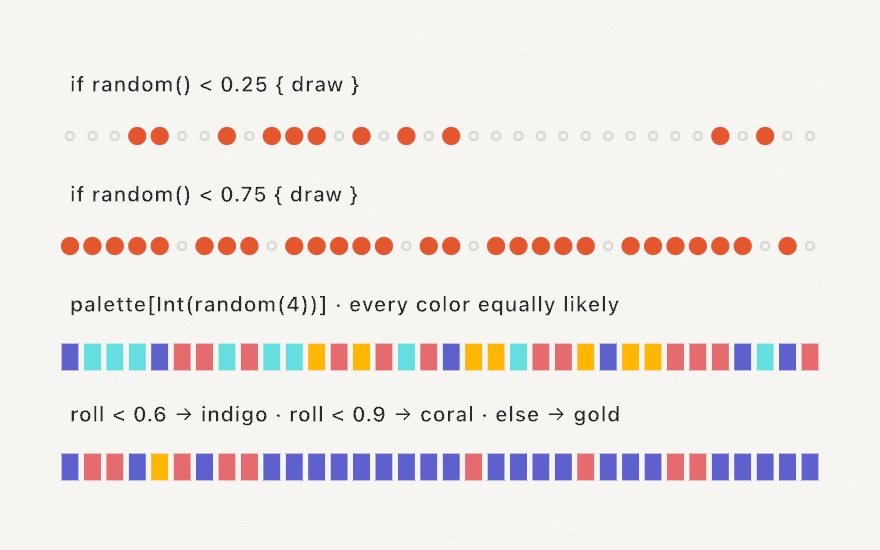
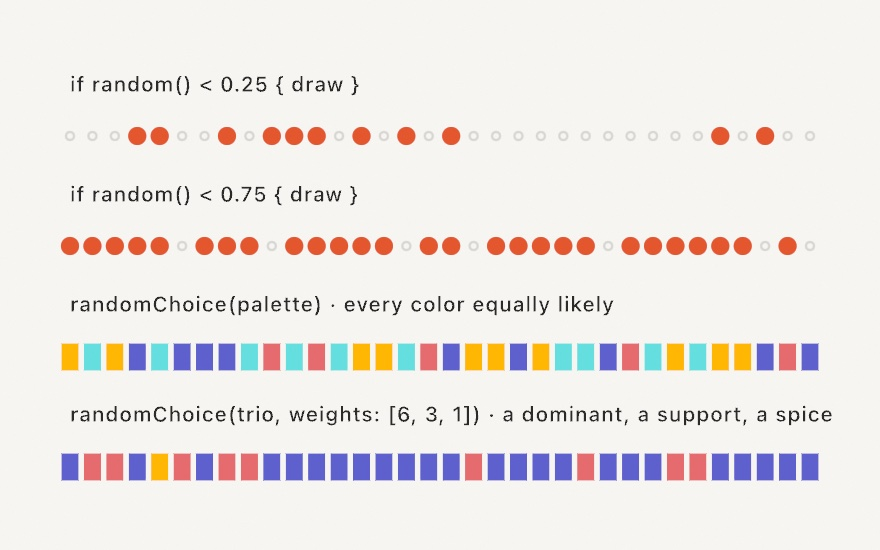
Add seeded randomChoice/shuffled, the Walk example, and the zero-width random gotcha
randomChoice(_:) picks uniformly from an array and randomChoice(_:weights:)
biases the pick (non-negative weights in any scale, zero never wins);
shuffled(_:) reorders through the sketch's seeded generator. All three ride
the same rng as random, so a seed reproduces them; RandomTests pins the
semantics, and Docs/Generators/Random.md documents them alongside the new
gotcha that a zero-width random(a, a) returns its bound without consuming a
roll (scale a unit roll instead, the idiom the Ch 4 payoff uses).

Examples/Randomness/Walk promotes the Guide's growing-walk figure into a
proper example: the clock reveals a seeded path, a click starts a fresh walk
in a randomChoice color. Guide Chapter 4 adopts the helpers in the pick and
weighted-pick teaching, the Choices figure, and the DisorderGrid payoff,
which drops the Int()-indexing dance from the book.

All three items came from the Chapter 4 teaching-gaps list.

diff --git a/Sources/Ollin/Math/Random.swift b/Sources/Ollin/Math/Random.swift
@@ -21,7 +21,7 @@ public struct SplitMix64: RandomNumberGenerator {
 }
 
 public extension Sketch {
-    /// Seed the generator behind `random()` for reproducible runs — the same
+    /// Seed the generator behind `random()` for reproducible runs: the same
     /// seed yields the same sequence. (Ollin's `random`/`noise` are their own
     /// implementations, so a seed reproduces Ollin's output.)
     func randomSeed(_ seed: Int) {
@@ -76,7 +76,7 @@ public extension Sketch {
         mean + randomGaussian() * deviation
     }
 
-    /// A random point inside `rect` — each coordinate uniform within the bounds.
+    /// A random point inside `rect`, each coordinate uniform within the bounds.
     /// Handy for scattering: `randomVector(in: Rectangle(x: 0, y: 0, width: width, height: height))`.
     func randomVector(in rect: Rectangle) -> Vector2 {
         Vector2(random(rect.x, rect.x + rect.width),
@@ -90,5 +90,43 @@ public extension Sketch {
         let radius = random(innerRadius, outerRadius)
         let angle = random(.tau)
         return Vector2(cos(angle) * radius, sin(angle) * radius)
+    }
+
+    /// A random element of `choices`, each equally likely. The everyday
+    /// palette pick: `fill(randomChoice(palette))`. Seeded like everything
+    /// `random`, so `randomSeed` makes the picks reproducible. `choices` must
+    /// not be empty.
+    func randomChoice<T>(_ choices: [T]) -> T {
+        precondition(!choices.isEmpty, "randomChoice needs at least one choice")
+        return choices[Int.random(in: 0 ..< choices.count, using: &rng)]
+    }
+
+    /// A random element of `choices`, biased by `weights`: one non-negative
+    /// weight per choice, in any scale (they need not sum to 1), and a choice
+    /// weighted 0 is never picked. `randomChoice(palette, weights: [6, 3, 1])`
+    /// picks the first color six times as often as the last.
+    func randomChoice<T>(_ choices: [T], weights: [Double]) -> T {
+        precondition(!choices.isEmpty, "randomChoice needs at least one choice")
+        precondition(choices.count == weights.count,
+                     "randomChoice needs one weight per choice")
+        let total = weights.reduce(0, +)
+        precondition(weights.allSatisfy { $0 >= 0 } && total > 0,
+                     "randomChoice weights must be non-negative, with at least one above zero")
+        let roll = random(total)
+        var cumulative = 0.0
+        for (choice, weight) in zip(choices, weights) {
+            cumulative += weight
+            if roll < cumulative { return choice }
+        }
+        // Floating-point summation can leave the roll a hair past the last
+        // threshold; land it on the final pickable choice.
+        return choices[weights.lastIndex(where: { $0 > 0 })!]
+    }
+
+    /// The elements of `array` in a random order, drawn from the sketch's
+    /// seeded generator, so a seeded shuffle reproduces. (An array's own
+    /// `shuffled()` rolls the system's dice instead and differs every run.)
+    func shuffled<T>(_ array: [T]) -> [T] {
+        array.shuffled(using: &rng)
     }
 }

diff --git a/Tests/OllinTests/RandomTests.swift b/Tests/OllinTests/RandomTests.swift
@@ -1,0 +1,76 @@
+import Testing
+@testable import Ollin
+
+/// The seeded choice helpers: reproducibility under a seed, weight semantics
+/// (zero never picked, bias holds), and the shuffle being a true permutation.
+@Suite
+@MainActor
+struct RandomTests {
+
+    @Test func seededChoicesReproduce() {
+        let a = Sketch(), b = Sketch()
+        a.randomSeed(42)
+        b.randomSeed(42)
+        let items = ["ink", "coral", "gold", "teal"]
+        for _ in 0..<50 {
+            #expect(a.randomChoice(items) == b.randomChoice(items))
+        }
+        for _ in 0..<50 {
+            #expect(a.randomChoice(items, weights: [6, 3, 1, 0.5])
+                == b.randomChoice(items, weights: [6, 3, 1, 0.5]))
+        }
+        #expect(a.shuffled(items) == b.shuffled(items))
+    }
+
+    @Test func uniformChoiceReachesEveryElement() {
+        let sketch = Sketch()
+        sketch.randomSeed(7)
+        let items = [0, 1, 2, 3]
+        var seen = Set<Int>()
+        for _ in 0..<200 {
+            seen.insert(sketch.randomChoice(items))
+        }
+        #expect(seen == Set(items))
+    }
+
+    @Test func zeroWeightIsNeverPicked() {
+        let sketch = Sketch()
+        sketch.randomSeed(3)
+        for _ in 0..<500 {
+            #expect(sketch.randomChoice(["a", "b", "c"], weights: [0, 1, 0]) == "b")
+        }
+    }
+
+    @Test func weightsBiasTheOdds() {
+        let sketch = Sketch()
+        sketch.randomSeed(11)
+        var first = 0
+        for _ in 0..<1000 where sketch.randomChoice([1, 2], weights: [9, 1]) == 1 {
+            first += 1
+        }
+        #expect(first > 800 && first < 980)   // ~900 expected; deterministic under the seed
+    }
+
+    @Test func shuffledIsASeededPermutation() {
+        let sketch = Sketch()
+        let items = Array(1...20)
+        sketch.randomSeed(5)
+        let once = sketch.shuffled(items)
+        sketch.randomSeed(5)
+        let again = sketch.shuffled(items)
+        #expect(once == again)
+        #expect(once.sorted() == items)
+        #expect(once != items)   // seed 5 happens not to be the identity permutation
+    }
+
+    @Test func zeroWidthRangeReturnsItsBoundWithoutConsumingARoll() {
+        // Load-bearing for seeded sketches (documented in Docs/Generators/Random.md):
+        // an empty range short-circuits, so knob-scaled jitter should roll
+        // random(-1, 1) * amount to keep the draw sequence stable at zero.
+        let a = Sketch(), b = Sketch()
+        a.randomSeed(9)
+        b.randomSeed(9)
+        #expect(a.random(5, 5) == 5)
+        #expect(a.random() == b.random())   // the zero-width call drew nothing
+    }
+}

diff --git a/Examples/Randomness/Walk/Sketch.swift b/Examples/Randomness/Walk/Sketch.swift
@@ -1,0 +1,46 @@
+import Ollin
+
+/// A seeded random walk revealed step by step: every frame redraws the same
+/// path from its first step (the seed holds it still) while the clock decides
+/// how many steps are visible, so the walk grows without boiling and comes to
+/// rest after ten seconds. **Click** for a fresh walk in a newly picked color.
+///
+/// Demonstrates the walk idiom (accumulate nudges instead of re-rolling),
+/// `randomSeed` replaying a path, and a seeded `randomChoice` from a palette.
+@main
+final class Walk: Sketch {
+    var walkSeed = 7
+    var startedAt = 0.0
+
+    let inks: [Color] = [
+        Color(hex: 0x64DFDF, alpha: 0.8), Color(hex: 0xFFB703, alpha: 0.8),
+        Color(hex: 0xE56B6F, alpha: 0.8), Color(hex: 0x5E60CE, alpha: 0.8),
+    ]
+
+    override func draw() {
+        background(Color(hex: 0x0E1116))
+        randomSeed(walkSeed)
+        stroke(randomChoice(inks))
+        strokeWeight(2.5 * scale)
+
+        var x = width / 2
+        var y = height / 2
+        let steps = min(2400, Int((time - startedAt) * 240))
+        for _ in 0..<steps {
+            let nx = x + random(-16, 16) * scale
+            let ny = y + random(-16, 16) * scale
+            drawLine(x, y, nx, ny)
+            x = nx
+            y = ny
+        }
+
+        noStroke()
+        fill(.white)
+        drawCircle(x, y, 9 * scale)
+    }
+
+    override func mousePressed() {
+        walkSeed += 1
+        startedAt = time
+    }
+}

diff --git a/Guide/Figures/04-Randomness/Choices.swift b/Guide/Figures/04-Randomness/Choices.swift
@@ -31,21 +31,18 @@ final class Choices: Sketch {
                 probability: 0.75, slots: slots, left: left, pitch: pitch)
 
         // A uniform pick: every color equally likely.
-        rowLabel("palette[Int(random(4))] · every color equally likely", y: 320)
+        rowLabel("randomChoice(palette) · every color equally likely", y: 320)
         for i in 0..<slots {
-            fill(palette[Int(random(4))])
+            fill(randomChoice(palette))
             noStroke()
             drawRect(left + Double(i) * pitch - 8, 344, 16, 26)
         }
 
-        // A weighted pick: stack the thresholds.
-        rowLabel("roll < 0.6 → indigo · roll < 0.9 → coral · else → gold", y: 430)
+        // A weighted pick: indigo dominant, coral support, gold the rare spice.
+        let trio = [palette[0], palette[3], palette[2]]
+        rowLabel("randomChoice(trio, weights: [6, 3, 1]) · a dominant, a support, a spice", y: 430)
         for i in 0..<slots {
-            let roll = random()
-            var pick = palette[0]
-            if roll >= 0.6 { pick = palette[3] }
-            if roll >= 0.9 { pick = palette[2] }
-            fill(pick)
+            fill(randomChoice(trio, weights: [6, 3, 1]))
             noStroke()
             drawRect(left + Double(i) * pitch - 8, 454, 16, 26)
         }

diff --git a/Guide/Figures/04-Randomness/DisorderGrid.swift b/Guide/Figures/04-Randomness/DisorderGrid.swift
@@ -42,7 +42,7 @@ final class DisorderGrid: Sketch {
                     let y4 = top + cell - inset + random(-1, 1) * d
                     stroke(ink)
                     if random() < 0.08 {
-                        stroke(accents[Int(random(3))])
+                        stroke(randomChoice(accents))
                     }
                     drawLine(x1, y1, x2, y2)
                     drawLine(x2, y2, x3, y3)

diff --git a/Package.swift b/Package.swift
@@ -587,6 +587,7 @@ let package = Package(
         example("Motion/ArcModes"),
         example("Randomness/Gaussian"),
         example("Randomness/Ring"),
+        example("Randomness/Walk"),
         example("Patterns/CliffordAttractor"),
         example("Patterns/DotGrid"),
         example("Patterns/Grid"),

diff --git a/Guide/04-Randomness.md b/Guide/04-Randomness.md
@@ -71,16 +71,21 @@ if random() < 0.25 {   // about a quarter of the time
 
 Read the top strip in the figure and count: about a quarter of the slots made it through, but in clumps and droughts, not neatly spaced. That lumpiness is what real chance looks like (dice have no memory of the last roll), and it's half of why generative pieces read as alive rather than patterned.
 
-The **pick** chooses from a list. Roll a position into the array:
+The **pick** chooses from a list, and it's one call:
 
 ```swift
 let palette: [Color] = [.indigo, .teal, .gold, .coral]   // any four you like
-fill(palette[Int(random(4))])
+fill(randomChoice(palette))
 ```
 
-> **Swift note.** Wrapping a number in `Int(...)` drops its fraction, so `Int(random(4))` is 0, 1, 2, or 3, never 4, which is exactly what a four-item list wants. Roll `random(Double(palette.count))` instead of a literal `4` and the line survives palette edits.
+And when equal odds are too equal, hand the pick **weights**, one per choice, in any scale you like:
 
-And when equal odds are too equal, **weight** the pick by stacking gates on one roll, the way the figure's last strip leans indigo: `let roll = random()`, then indigo below 0.6, coral below 0.9, gold for the rare rest. Sixty-thirty-ten. Most compositions want a dominant, a support, and a spice, and three thresholds buy you that.
+```swift
+let trio = [Color.indigo, .coral, .gold]
+fill(randomChoice(trio, weights: [6, 3, 1]))   // the figure's last strip
+```
+
+Six-three-one: the first color wins six times as often as the last, and a weight of zero would never win at all. Under the hood this is the gate again, one roll checked against thresholds stacked in proportion to the weights. Most compositions want a dominant, a support, and a spice, and three weights buy you that. (The same seeded dice also deal a whole deck: `shuffled(palette)` is the full list in a random order.)
 
 ## The two shapes of chance
 
@@ -132,7 +137,9 @@ final class WalkGrows: Sketch {
 
 <img src="Images/04-Randomness/WalkGrows.jpg" alt="A teal random walk on a dark canvas, dense tangled clusters joined by corridors, with a white dot marking the walker's current position" width="560">
 
-Run it and the walk *grows* in front of you, ten seconds from first step to rest. The trick is a compact reprise of the whole chapter: the walk is seeded, so every frame redraws the *identical* path from the start; the only thing time controls is how many steps of it you get to see (`Int(time * 240)`, capped by `min` at 2,400 so it eventually rests). Chance decides the shape once; the clock just pulls back the curtain. Notice the anatomy of the path, tight tangles connected by sudden corridors: statisticians call it the drunkard's walk, and the tangles are the lamp posts.
+Run it and the walk *grows* in front of you, ten seconds from first step to rest. The trick is a compact reprise of the whole chapter: the walk is seeded, so every frame redraws the *identical* path from the start; the only thing time controls is how many steps of it you get to see. Chance decides the shape once; the clock just pulls back the curtain. Notice the anatomy of the path, tight tangles connected by sudden corridors: statisticians call it the drunkard's walk, and the tangles are the lamp posts.
+
+> **Swift note.** Wrapping a number in `Int(...)` drops its fraction, so `Int(time * 240)` counts up in whole steps, 240 of them a second. `min(a, b)` hands back the smaller of its two values, which is what stops the count at 2,400.
 
 The walk's little `x = nx` heartbeat, a value carried forward and nudged, is where Part II begins: velocity, springs, and flocks all carry a value forward and nudge it. And the walk's one aesthetic flaw, that jittery stagger, is precisely the itch Chapter 5 scratches: noise is a random walk that learned to glide.
 
@@ -179,7 +186,7 @@ final class DisorderGrid: Sketch {
                     let y4 = top + cell - inset + random(-1, 1) * d
                     stroke(ink)
                     if random() < 0.08 {
-                        stroke(accents[Int(random(3))])
+                        stroke(randomChoice(accents))
                     }
                     drawLine(x1, y1, x2, y2)
                     drawLine(x2, y2, x3, y3)
@@ -201,7 +208,7 @@ Run it with `swift run OllinLive MySketches/DisorderGrid.swift` and take it apar
 - `randomSeed(gridSeed)` opens the frame, so the whole drawing is one seed's story, held perfectly still. The `Seed` knob picks which story: click the canvas to step to the next variation, or click the knob's value box and type a favorite. `Seed` starts at a whole number (`7`, not `7.0`), so it's a whole-number knob, the same move as Chapter 3's `Waves`.
 - `unrest` is the composition. Row 0 computes it as zero (no nudge allowed, perfect nesting), the bottom row gets the full `Disorder` knob, and every row between gets its share. One line decides the piece's entire top-to-bottom narrative.
 - Each quadrilateral is four corners sitting on the posts of a perfect square, `inset` deep into its cell, and every corner coordinate rolls its own `random(-1, 1)` nudge, scaled by the row's reach `d`: eight rolls per shape, so squares don't just shift, they *deform*. Four `drawLine` calls close the loop.
-- The accent is a gate and a pick working together, straight from this chapter: eight percent of quads trade ink for one of three colors, `accents[Int(random(3))]`.
+- The accent is a gate and a pick working together, straight from this chapter: eight percent of quads trade ink for `randomChoice(accents)`.
 - Turn `Disorder` to zero and the grid snaps to perfect order: the piece contains its own before picture. Because the *pattern* of rolls never changes with the knob (only their reach), the same tangles grow back in the same places as you turn it up again.
 
 When a seed earns it, export the still:
@@ -223,7 +230,7 @@ The grammar of this chapter is the founding grammar of computer art. Vera Molná
 
 ## Go deeper
 
-- [Random](../Docs/Generators/Random.md): the full reference, including `randomVector` (a roll inside a rectangle) and `ring` (a roll inside a ring, great for halos).
+- [Random](../Docs/Generators/Random.md): the full reference, including `randomVector` (a roll inside a rectangle), `ring` (a roll inside a ring, great for halos), and the seeded `shuffled`.
 - [Noise](../Docs/Generators/Noise.md): the next chapter's subject, if you can't wait to make chance glide.
 - Worked examples, all in [`Examples/Randomness/`](../Examples/Randomness/): `Gaussian` (the bell curve as boiling scatter), `RandomBand` (uniform, for contrast), and `Ring` (the annulus roll).
 - The Molnár homages in [`Examples/Recreations/VeraMolnar/`](../Examples/Recreations/VeraMolnar/): `DesOrdres` (seeded disorder scrubbed by the mouse) and `Interruptions` (a field of tilted ticks, its gaps carved by the noise you'll meet in Chapter 5).

diff --git a/CLAUDE.md b/CLAUDE.md
@@ -172,7 +172,7 @@ A few load-bearing rules recur across the satellites, so they're stated once her
 
 - **iPhone capture app (Ollin Capture + `OllinPhone`).** Ollin's own iOS app (`Apps/OllinPhoneApp`, xcodegen + Xcode) streams on-device ARKit perception over USB: a 3D body skeleton, a face (deforming mesh + 52 expression blendshapes, up to 3 faces), world-facing rear-LiDAR depth (a `PointCloud` + the 6DoF camera pose, via the core `RGBDFrame`), person segmentation (a matte + cutout, via the core-lifted `SegmentationImages`), and CoreMotion device motion. The Mac client `PhoneDevice` (`@MainActor`, self-retrying) exposes `latestBody` / `latestFaces` / `latestMotion` / `latestDepthFrame` / `latestSegmentationMatte` / `latestSegmentationCutout`; `PhoneBody` / `PhoneFace` / `PhoneMotion` mirror the Vision accessor shape. Transport: the shared `OllinUSBMux` tunnel + the `PhoneWire` codec (pure Foundation/simd, compiled verbatim into both ends; `streamPort` 1338). **World-pose fusion** — the core `WorldCloud` voxel accumulator + `PointCloud.transformed(by:)` place each depth frame by its pose into one fixed world cloud (sweep the phone, fuse the room). Body / Face / World / Segment are behind a phone-side camera toggle (mutually exclusive; motion always streams). **Gotchas:** the segmentation upright-rotation must be an accelerated `CGContext` draw, not a byte loop (debug-build frame rate); the 52 blendshapes ride the wire positionally so `PhoneBlendShape` raw values must stay contiguous 0…51; `PhoneWire.version` stays 1 pre-1.0 (both ends rebuild together). `Docs/3D/Phone.md`; examples `3D/PhoneBodyPose` / `PhoneFace` / `PhoneDepthCloud` / `PhoneWorldScan` / `PhoneSegmentation`.
 
-- **Math & motion.** `map` / `dist` / `lerp`, a resolution-relative `scale`, seedable `random` / `noise` (`randomGaussian` / `randomVector` / `ring` / `curlNoise` / `signedNoise`, a master `seed()`), `Double.tau`; easing (the `Easing` curve catalog + `@Eased`, plus the `Timeline<Value: Tweenable>` keyframe sequencer) and input smoothing (`OneEuroFilter` + `@Smoothed`), both frame-rate-independent and auto-advanced per frame. `Docs/Helpers/Math.md`, `Docs/Generators/Random.md`, `Docs/Generators/Noise.md`, `Docs/Helpers/Animation.md`.
+- **Math & motion.** `map` / `dist` / `lerp`, a resolution-relative `scale`, seedable `random` / `noise` (`randomGaussian` / `randomVector` / `ring` / `randomChoice` uniform+weighted / `shuffled` / `curlNoise` / `signedNoise`, a master `seed()`; gotcha: zero-width `random(a, a)` consumes no roll, so knob-scaled jitter rolls `random(-1, 1) * amount`), `Double.tau`; easing (the `Easing` curve catalog + `@Eased`, plus the `Timeline<Value: Tweenable>` keyframe sequencer) and input smoothing (`OneEuroFilter` + `@Smoothed`), both frame-rate-independent and auto-advanced per frame. `Docs/Helpers/Math.md`, `Docs/Generators/Random.md`, `Docs/Generators/Noise.md`, `Docs/Helpers/Animation.md`.
 
 - **Canvas, capture & tooling.** `canvasSize` (the `CanvasSize` enum, 1080² default) previewed per `windowMode` (`.auto` / `.fixed` / `.resizable`); a maintained `Examples/` set incl. a `Recreations/` section; headless capture (`OllinApp.image(of:)`, `--export`) + deterministic frame-sequence export (`--export-sequence` + `--skip` warmup); **video & GIF export** (`OllinApp.exportVideo` / `exportGIF`, `--export-video` / `--export-gif` — AVAssetWriter h264/hevc/prores + ImageIO GIF over one fixed-timestep drive; codec / `--bitrate` / `--quality` control, the last gated `#if arch(arm64)`); **vector SVG export** (`--export-svg` — a CPU-only serializer, curved SDF shapes traced via marching squares; the opt-in `--hatch` / `Hatching` fill-to-line-work transform for pen plotters); the whole export/bench flag surface lives in `OllinApp.handleCommandLine(_:makeSketch:)` (`Sketch.main()` routes through it, and `OllinLive` runs it on a *loose watched sketch file* — `swift run OllinLive Sketch.swift --export-gif …` — compiling the file only when a flag matches, so any Guide-style sketch exports without needing a target); the `extend(...)` `SketchExtension` seam (setup / beforeDraw / afterDraw / afterFrame / frameRendered, opt-in `wantsRenderedFrame` / `wantsRenderedTexture`); **live reload** (`swift run OllinLive`, the typed `@Param` inspector controls, the shared `FrameStats`); the **live-coding performance host** (`swift run OllinLiveCoding` — evaluate-on-command over the same engine; see the *Live coding* block under § *Live reload* below, `Docs/Tools/LiveCoding.md`); the **examples gallery** (`swift run OllinExamples`) — a two-sidebar host on the OllinLive window recipe (fixed `HStack` + `.contentSize` + unified gradient toolbar + title-bar accessory toggles, the chrome shared via the core `WindowChrome.swift`): left, the example list as a collapsible tree mirroring the folder groups (`ExampleCatalog.tree`, disclosure state persisted, an Xcode-style bottom filter bar) — arrow keys navigate it because the canvas takes keyboard focus **only on click** (`SketchView(keyboardFocus: .onClick)`, a glass "click the sketch to use the keyboard" hint floated only for sketches whose *source* reads keys, `Example.usesKeyboard`); right, the hidable inspector (⌘/, the shared `MonitorCardView` + `@Param` knobs — so the gallery omits `OllinHUDCommands`/the detached panel). `Examples/3D` is grouped into topic subfolders (`Camera`/`Depth`/`Effects`/`Environments`/`Geometry`/`Lighting`/`Materials`/`Phone`/`Raymarching`), targets renamed to match (`Example-3D-<Group>-<Name>`); render-correctness snapshot tests (`Tests/OllinTests`, re-record via `OLLIN_RECORD_SNAPSHOTS=1`); CI. The AVFoundation link lives in the core for offline export only. `Docs/Output/Export.md`, `Docs/Core/Canvas.md`, `Docs/Helpers/Parameters.md`.
 

diff --git a/Docs/Generators/Random.md b/Docs/Generators/Random.md
@@ -12,6 +12,8 @@
 - [randomGaussian](#randomGaussian)
 - [randomVector](#randomVector)
 - [ring](#ring)
+- [randomChoice](#randomChoice)
+- [shuffled](#shuffled)
 - [randomSeed](#randomSeed)
 - [seed](#seed)
 
@@ -33,6 +35,8 @@ A uniform random `Double`: in `0..<1`, in `0..<max`, or between `min` and `max` 
 let y = 400 + random(-100, 100)        // jitter around 400
 if random() < 0.2 { /* runs about a fifth of the time */ }
 ```
+
+One gotcha for seeded sketches: a zero-width range short-circuits, so `random(a, a)` returns `a` *without consuming a roll*. If a knob or an animated value scales a jitter amount that can reach exactly zero, write the jitter as a scaled unit roll, `random(-1, 1) * amount`, not `random(-amount, amount)`: the first always draws, so the seeded sequence (and the piece's whole pattern of later rolls) stays stable as `amount` crosses zero.
 
 <a name="randomGaussian"></a>
 
@@ -111,6 +115,40 @@ A random point in the annulus between the two radii, centered on the origin. Add
 let center = Vector2(width / 2, height / 2)
 let p = center + ring(innerRadius: 50, outerRadius: 100)
 drawCircle(center: p, radius: 3)
+```
+
+### Choices
+
+<a name="randomChoice"></a>
+
+#### randomChoice
+
+```swift
+randomChoice<T>(_ choices: [T]) -> T
+randomChoice<T>(_ choices: [T], weights: [Double]) -> T
+```
+
+A random element of `choices`: each equally likely, or biased by `weights`. The everyday palette pick, without indexing arithmetic. Weights are one per choice, non-negative, in any scale (they need not sum to 1); a choice weighted 0 is never picked. `choices` must not be empty. Seeded like everything `random`, so `randomSeed` makes the picks reproducible.
+
+```swift
+fill(randomChoice(palette))                            // any of them
+fill(randomChoice(palette, weights: [6, 3, 1]))        // a dominant, a support, a spice
+let move = randomChoice(["up", "down", "hold"], weights: [1, 1, 4])
+```
+
+<a name="shuffled"></a>
+
+#### shuffled
+
+```swift
+shuffled<T>(_ array: [T]) -> [T]
+```
+
+The elements of `array` in a random order, drawn from the sketch's seeded generator, so a seeded shuffle reproduces run to run. (An array's own `shuffled()` rolls the system's dice instead and differs every run.)
+
+```swift
+randomSeed(9)
+let order = shuffled(palette)   // the same reordering every run
 ```
 
 ### Seeding

diff --git a/Examples/Randomness/README.md b/Examples/Randomness/README.md
@@ -13,5 +13,6 @@
 | [NoiseWave](NoiseWave/Sketch.swift) | a wave of dots offset by `signedNoise` (smooth); the noise counterpart |
 | [RandomBand](RandomBand/Sketch.swift) | a band of dots jittered by `random` (jagged); re-rolls with the mouse |
 | [Ring](Ring/Sketch.swift) | dots scattered in an annulus by `ring()`, `scale`-relative so it holds its proportion |
+| [Walk](Walk/Sketch.swift) | a seeded random walk revealed by the clock; click for a fresh walk in a `randomChoice` color |
 
 Run one with `swift run Example-Randomness-<Name>`, e.g. `swift run Example-Randomness-NoiseField`.
